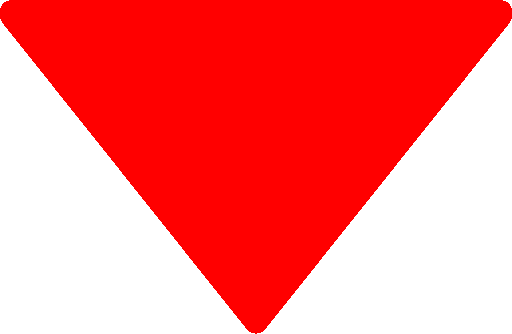
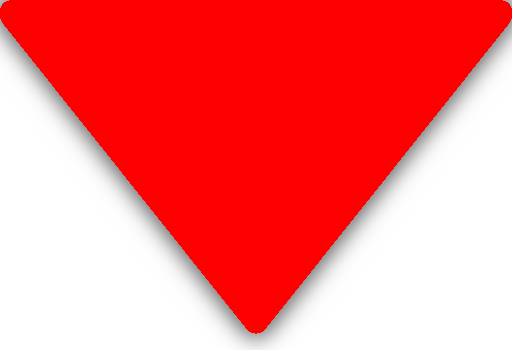
updated voting buttons to match design

Changed region(s): [[0.0, 0.0599, 1.0, 1.0], [0.9688, 0.0, 1.0, 0.0299], [0.0, 0.0, 0.0312, 0.0299]]

diff --git a/frontend/src/components/postwrapper.js b/frontend/src/components/postwrapper.js
@@ -36,7 +36,7 @@ class PostWrapper extends React.Component {
 
   render() {
     return (
-      <div style={{ color: "white", display: "inline-block"}}>
+      <div style={{ color: "white"}}>
         <GoToPostRedirect pps={this.props} />
 
         <div class="karma" className="karma">
@@ -45,24 +45,24 @@ class PostWrapper extends React.Component {
             height="35px"
             type="image"
             src="images/triangle_up_green.png"
-            style={{ backgroundColor: "transparent" }}
+            class="upvote"
             id="upvote"
             onClick={() =>
               this.setState({ karma: parseInt(this.state.karma) + 1 })
             }
-          />
-          <label>{this.state.karma}</label>
+          />          
           <input
             width="50px"
             height="35px"
             type="image"
             src="images/triangle_down_red.png"
-            style={{ backgroundColor: "transparent" }}
+            class="downvote"
             id="downvote"
             onClick={() =>
               this.setState({ karma: parseInt(this.state.karma) - 1 })
             }
           />
+          <span class="karma-container"><label>{this.state.karma}</label></span>          
         </div>
 
         <div style={{ paddingTop: "0.2em" }}>

diff --git a/frontend/src/components/postpage.js b/frontend/src/components/postpage.js
@@ -30,15 +30,6 @@ class PostPage extends Component {
             <Header />
             <div class="page">
                     <div id="postPreviews">
-                        <form action="postpreview.html" id="post">
-                            <input type="submit" value="Post" />
-                        </form>
-                        <form action="messagePage.html" id="message">
-                            <input type="submit" value="Message" />
-                        </form>
-                        <form action="modpage.html" id="logIn">
-                            <input type="submit" value="Log In"/>
-                        </form>
                         <PostWrapper
                             title = {this.state.title}
                             desc = {this.state.desc}

diff --git a/frontend/src/css/style.css b/frontend/src/css/style.css
@@ -180,8 +180,21 @@ textarea {
 
 .karma {
     float: right;
+    position: relative;
+    right: 25%;
 }
 
 .v-spacing {
     padding: 5px 0px;;
+}
+
+.karma-container {
+    padding: 5px 10px;
+    background-color: #C4C4C4;
+    box-shadow: 2px 2px 2px black;
+    position: relative;
+    top: -15px;
+    font-size: large;
+    margin: 0px 12px;
+    color:black;
 }
